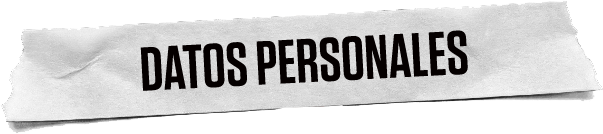
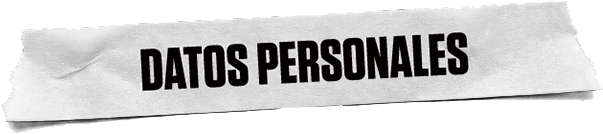
update titulos

Changed region(s): [[0.209, 0.209, 0.7761, 0.6866]]

diff --git a/index-sanchez.html b/index-sanchez.html
@@ -202,7 +202,7 @@
 
     <div class="box-timeline">
         <div class="bg-timeline"></div>
-        <img src="https://nuevasnarrativasec.github.io/versus-electoral-2026/img/bg-titulo-datos.png" alt="" width="100%" class="bg-titulo">
+        <img src="https://nuevasnarrativasec.github.io/versus-electoral-2026/img/bg-titulo-datos.png?v2" alt="" width="100%" class="bg-titulo">
 
         <p class="explicacion">
             Información según las hojas de vida declaradas por los candidatos para estas elecciones.
@@ -312,7 +312,7 @@
             <img src="https://nuevasnarrativasec.github.io/versus-electoral-2026/img/bg-sub-sentencias.png" alt="" width="100%" style="max-width: 133px;" class="bg-sub-sentencias">
             <span class="linea-izq"></span>
             <span class="linea-der"></span>
-            <div class="box-info-izq">
+            <div class="box-info-izq info-top">
                 <img src="https://nuevasnarrativasec.github.io/versus-electoral-2026/img/bg-linea-dato.png" alt="" width="100%" class="bg-linea-dato">               
                 <p class="margin">
                     <span>Sentencias judiciales declaradas</span>
@@ -323,7 +323,7 @@
                     <strong>Declara no tener demandas</strong>
                 </p>
             </div>
-            <div class="box-info-der">
+            <div class="box-info-der info-top">
                 <img src="https://nuevasnarrativasec.github.io/versus-electoral-2026/img/bg-linea-dato-sanchez.png" alt="" width="100%" class="bg-linea-dato">
                 <p class="margin">
                     <span>Sentencias judiciales declaradas</span>
@@ -945,7 +945,7 @@
 
     </div>
 
-    <img src="https://nuevasnarrativasec.github.io/versus-electoral-2026/img/bg-titulo-importante.png" alt="" width="100%" class="bg-titulo bg-titulo-cierre">
+    <img src="https://nuevasnarrativasec.github.io/versus-electoral-2026/img/bg-titulo-importante.png?v2" alt="" width="100%" class="bg-titulo bg-titulo-cierre">
     <p class="cierre">
         Este 7 de junio elige de manera responsable al candidato presidencial.
     </p>
